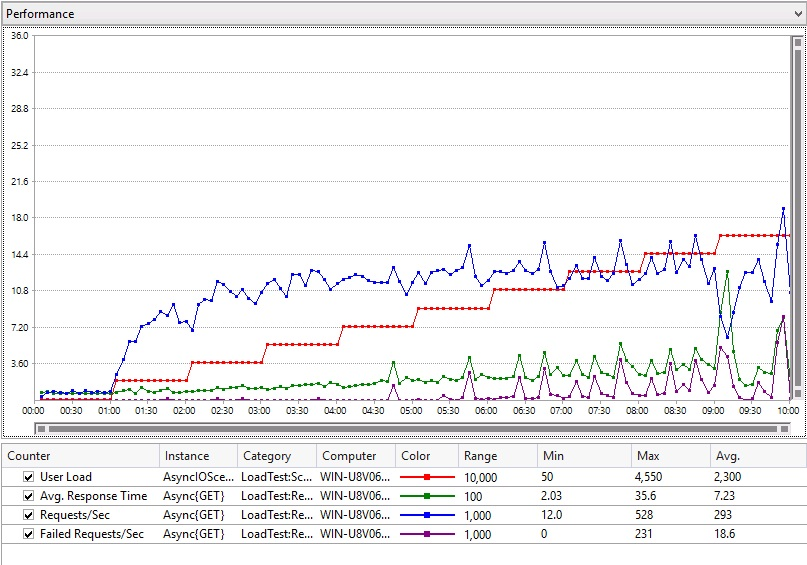
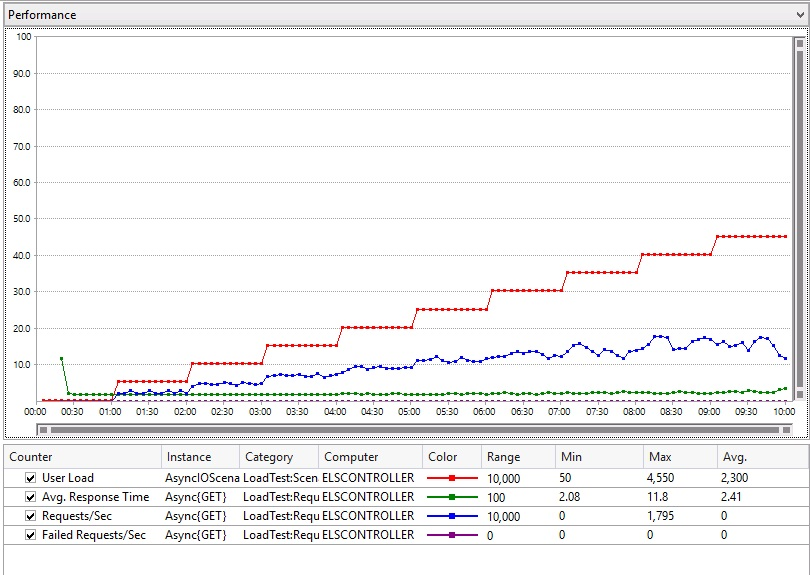
Incorporated feedback.

diff --git a/SynchronousIO/docs/SynchronousIO.md b/SynchronousIO/docs/SynchronousIO.md
@@ -1,6 +1,6 @@
-# Synchronous I/O
+# Performing Synchronous I/O
 
-A synchronous I/O operation blocks the calling thread while the I/O completes. The calling thread is effectively suspended and unable to perform useful work during this interval. The result is that processing resources are wasted. In a cloud-based web application or service which serves multiple concurrent requests, this approach can adversely affect the scalability of the system.
+A synchronous I/O operation blocks the calling thread while the I/O completes. The calling thread is effectively suspended and unable to perform useful work during this interval. The result is that processing resources are wasted. In a cloud-based web application or service which serves multiple concurrent requests, this approach can adversely affect the vertical scalability of the system.
 
 Common examples of synchronous I/O include:
 
@@ -47,14 +47,10 @@ public class SyncController : ApiController
         _userProfileService = new UserProfileServiceProxy();
     }
 
-    /// <summary>
-    /// This is a synchronous method that calls the synchronous GetUserProfile method.
-    /// </summary>
-    /// <returns>A UserProfile instance</returns>
+    // This is a synchronous method that calls the synchronous GetUserProfile method.
     public UserProfile GetUserProfile()
     {
-        var userProfile = _userProfileService.GetUserProfile();
-        return userProfile;
+        return _userProfileService.GetUserProfile();
     }
 }
 ```
@@ -72,8 +68,6 @@ var result = LibraryIOOperation();
 Console.WriteLine("{0}", result);
 ```
 
-- The system is tuned to expect a constant load where synchronous I/O may be more optimal. This can happen with IIS optimization and may be missed during load testing where the system may be exposed to an artificially distributed (constant) stream of requests directed at a limited set of I/O resources. Performing operations synchronously in this scenario can help to preserve CPU and memory resources as requests are queued rather than being competing for the same data on seperate threads. However, in the real world, requests are more likely to be distributed across a wider number of items and occur at varying rates, in which case performing synchronous I/O operations becomes an overhead rather than an advantage.
-
 - Synchronous I/O operations are hidden in an external library used by the application. A single synchronous I/O call embedded deep within a series of cascading operations can block an entire call chain.
 
 ## How to detect the problem
@@ -81,66 +75,87 @@ From the viewpoint of a user running an application that performs synchronous I/
 
 ### Reviewing the application
 
-If you are a designer or developer familiar with the way in which application is implemented, you could perform a code review to identify the source of any I/O operations that the application performs. I/O operations that appear to be synchronous should be evaluated to determine whether they are likely to cause a blockage as the number of requests increases.
+Perform a code review to identify the source of any I/O operations that the application performs. I/O operations that appear to be synchronous should be evaluated to determine whether they are likely to cause a blockage as the number of requests increases.
 
 ----------
+
 **Note:** I/O operations that are expected to be very short lived and which are unlikely to cause contention, typically accessing fast, local resources (such as small private files on an SSD drive), might be best left as synchronous operations. In these cases the overhead of creating and managing a separate task, dispatching it to another thread, and synchronizing with that thread when the task completes might outweigh the benefits of performing an operation asynchronously.
 
 ----------
 
 ### Load-testing the application
 
-Load-testing can help to identify whether a system is being constrained by performing synchronous I/O operations. As user load increases, performing synchronous I/O operations can result in exponential increases in latency for requests and consequent low throughput. This behavior typically occurs when the user load reaches thousands of concurrent requests. A good detection strategy to determine whether synchronous I/O may be a problem is to load-test the system against a work load that increases from a small number to thousands of concurrent user requests and examine how the response rate and latency varies. As an example, the following table illustrates the performance of the synchronous `GetUserProfile` method in the `SyncController` controller in the sample application under varying loads. 
+Load-testing can help to identify whether a system is being constrained by performing synchronous I/O operations. As an example, the following graph illustrates the performance of the synchronous `GetUserProfile` method in the `SyncController` controller in the sample application under varying loads. 
 
 ----------
 
-**Note:** The sample application was deployed to a 2-instance cloud service comprising small virtual machines. Using more instances and larger virtual machines should support a bigger work load, but the purpose of this exercise is to demonstrate the profile of a web application that performs synchronous I/O operations. Also note that the synchronous operation is timed to take 2 seconds, so the minimum response time will be slightly over 2 seconds.
+**Note:** The sample application was deployed to a 2-instance cloud service comprising medium virtual machines. Also note that the synchronous operation is timed to take 2 seconds, so the minimum response time will be slightly over 2 seconds.
 
 ----------
-
-Users | Requests/sec | Avg Response Time secs | Failed Requests/sec
--------| -------------| ------------------ | -------------------
-50 | 23.4 | 2.08 | 0
-550 | 53 | 9.74 | 0.13
-1050 | 76.5 | 12.5 | 0.083
-1550 | 93.7 | 15.5 | 0.58
-2050 | 104 | 18.1 | 1.90
-2550 | 335 | 7.42 | 227
-3050 | 132 | 20.3 | 22
-3550 | 1599 | 1.35 | 1491
-4050 | 172 | 18.7 | 46.1
-4550 | 175 | 17.5 | 35.8
-
-Incoming requests are queued by the IIS web server and handed to a thread running in the ASP.NET thread pool. Because each operation performs I/O synchronously, the thread is blocked until the operation completes. As the workload increases, the rate at which requests are processed also increases up to the point at which all of the ASP.NET threads in the thread pool are blocked. At this time, any further incoming requests cannot be not fulfilled immediately and wait in the queue until a running operation completes and a thread becomes available. As the queue length grows, requests start to time out. This is characterized by the number of errors that are returned. Although the volume of requests appears to increase at this point, the proportion of these requests that result in an error also increases. In total, the load-test reported 109,338 failed tests out of 164,981; a failure rate of 66.3%. The following graph illustrates these points:
 
 ![Performance chart for the sample application performing synchronous I/O operations][sync-performance]
 
+As the load increases, so does the average response time and the throughput measured in requests per second. The total number of requests completed during the test interval (10 minutes) was 51254.
+
+In isolation, it is not necessarily apparent from this test that performing synchronous I/O is a problem (unless the response time is outside of agreed SLAs). However, if processing resources are more constrained (either as a result of a much larger volume of users, or using smaller scale hosts) then you may see results similar to the following graph:
+
+![Performance chart for the sample application running on a constrained host performing synchronous I/O operations][limited-sync-performance]
+
+In this load-test, the response time and throughput initially follow a similar pattern to that of the previous test (they both increase gradually, although the system is slower due to the resource limitations of the smaller virtual machines), until the system reaches a tipping point when the workload reaches 2550 users. At this time a large number of errors start to occur. The following table breaks down the information presented by the graph:
+
+Users | Requests/sec | Avg Response Time secs | Failed Requests/sec | Successful Requests/sec
+---|---|---|---|---
+50 | 23.4 | 2.08 | 0 | 23.4
+550 | 53 | 9.74 | 0.13 | 52.87
+1050 | 76.5 | 12.5 | 0.08 | 76.42
+1550 | 93.7 | 15.5 | 0.58 | 93.12
+2050 | 104 | 18.1 | 1.90 | 102.91
+2550 | 335 | 7.42 | 227 | 108
+3050 | 132 | 20.3 | 22 | 110
+3550 | 1599 | 1.35 | 1491 | 108
+4050 | 172 | 18.7 | 46.1 | 125.9
+4550 | 175 | 17.5 | 35.8 | 139.2
+
+The rate of successful requests is not shown on the graph but is calculated by subtracting the rate of failed requests from the rate of all requests. Apart from the final couple of figures (which are possibly outliers), the system appears to support a maximum of approximately 110 successful requests per second. To understand why this is so, consider that the application runs as a Web role. Incoming requests are queued by the IIS web server and handed to a thread running in the ASP.NET thread pool. Because each operation performs I/O synchronously, the thread is blocked until the operation completes. As the workload increases, the rate at which requests are received also increases up to the point at which all of the ASP.NET threads in the thread pool are allocated and being blocked. At this time, any further incoming requests cannot be not fulfilled immediately and wait in the queue until a running operation completes and a thread becomes available. As the queue length grows, requests start to time out. This is characterized by the number of errors that are returned. Although the volume of requests appears to increase at this point, the proportion of these requests that result in an error also increases. In total, the load-test reported a failure rate of 66.3%. 
+
 ----------
 
-**Note:** Throughput should not be determined by the volume of requests per second and the response time alone, but must also consider the rate at which requests fail.
+**Note:** This load-test illustrates an important point: **Throughput should not be determined by the volume of requests per second and the response time alone, but must also consider the rate at which requests fail.**
 
 ----------
 
-For comparison purposes with the earlier example, the following table and graph highlights the performance of the asynchronous `GetUserProfileAsync` method in the `AsyncController` controller in the sample application under the same varying loads:
-
-Users | Requests/sec | Avg Response Time secs | Failed Requests/sec
--------| -------------| ------------------ | -------------------
-50 | 23.4 | 2.10 | 0
-550 | 195 | 2.75 | 0.83
-1050 | 284 | 3.4 | 1.22
-1550 | 328 | 4.15 | 0.77
-2050 | 332 | 5.38 | 3.93
-2550 | 353 | 6.6 | 11.1
-3050 | 358 | 7.88 | 20.8
-3550 | 356 | 9.35 | 33.5
-4050 | 324 | 14.3 | 46.2
-4550 | 326 | 12.8 | 67.4
+For comparison purposes with the earlier examples, the following graph illustrates the performance of the asynchronous `GetUserProfileAsync` method in the `AsyncController` controller in the sample application under the same varying loads and conditions as the first test (a 2-instance set of medium sized virtual machines):
 
 ![Performance chart for the sample application performing asynchronous I/O operations][async-performance]
 
-Each operation will still take at least 2 seconds (possibly slightly slower than the synchronous version due to the overhead of dispatching the I/O operations to a separate thread and then marshalling the results when the operation completes). However, this time the throughput is more consistent when the system reaches capacity and the error rate is significantly lower (11,143 tests failed out of 176,028 performed; an error rate of 6.33%). This is because ASP.NET threads are not blocked and can accept further requests while existing requests are performing I/O operations asynchronously. 
+This time the throughput is far higher. This is because the ASP.NET threads handling the incoming requests are not blocked by I/O requests. Instead, they become available to process further requests. In the same period of time as the previous test, the system successfully handled 567067 requests; a nearly 10-fold increase in throughput.
 
-You can use the following strategy when load-testing a system to detect effects due to synchronous I/O:
+Repeating the tests in the more constrained environment using small virtual machines generates the following results:
+
+Users | Requests/sec | Avg Response Time secs | Failed Requests/sec | Successful Requests/sec
+---|---|---|---|---
+50 | 23.4 | 2.10 | 0 | 23.4
+550 | 195 | 2.75 | 0.83 | 194.17
+1050 | 284 | 3.4 | 1.22 | 282.78
+1550 | 328 | 4.15 | 0.77 | 327.23
+2050 | 332 | 5.38 | 3.93 | 328.07
+2550 | 353 | 6.6 | 11.1 | 341.9
+3050 | 358 | 7.88 | 20.8 | 337.2
+3550 | 356 | 9.35 | 33.5 | 322.5
+4050 | 324 | 14.3 | 46.2 | 277.8
+4550 | 326 | 12.8 | 67.4 | 258.6
+
+![Performance chart for the sample application performing asynchronous I/O operations][limited-async-performance]
+
+The system still reaches a tipping point, but at a far higher workload than before (at approximately 4050 users). Additionally, the maximum number of consistently successful requests is also higher at approximately 330 requests per second (the final two figures are probably outliers, as in the earlier example). The error rate reported was 6.33%. This test shows that even in a constrained environment, replacing synchronous I/O operations with asynchronous requests can lead to big performance gains.
+
+----------
+
+**Note:** the maximum queue length supported by IIS is 5000 outstanding requests, regardless of the size of the host virtual machine. Once this number of requests is exceeded they may start failing. Scaling the size of virtual machines vertically will not help. In this situation, you should scale horizontally and spread the load over more instances.
+
+----------
+
+To summarize, you can use the following strategy when load-testing a system to detect effects due to synchronous I/O:
 
 1. Perform a load-test with a large workload (many thousands of users). The ASP.NET thread pool only contains approximately 100 threads initially to satisfy requests, so requests that perform synchronous I/O operations will show how a high latency.
 
@@ -163,18 +178,25 @@ Some libraries provide asynchronous versions of the available I/O operations. Fo
 CloudStorageAccount storageAccount = ...;
 CloudBlobClient blobClient = storageAccount.CreateCloudBlobClient();
 CloudBlobContainer container = blobClient.GetContainerReference("uploadedfiles");
-await container.CreateIfNotExistsAsync();
+await container.CreateIfNotExistsAsync().ConfigureAwait(false);
 
 CloudBlockBlob blockBlob = container.GetBlockBlobReference("myblob");
 
 // Create or overwrite the "myblob" blob with contents from a local file.
-using (var fileStream = System.IO.File.OpenRead(HttpContext.Current.Server.MapPath(@"../FileToUpload.txt")))
+using (var fileStream = File.OpenRead(HostingEnvironment.MapPath("~/FileToUpload.txt")))
 {
     await blockBlob.UploadFromStreamAsync(fileStream).ConfigureAwait(false);
 }
 ```
 
-The `UploadFromStreamAsync` method creates a new `Task` on which to perform the file upload operation. This task can run asynchronously on a separate thread from the code that called it. Note that this code uses the `await` operator to return control to the calling environment while the asynchronous operation is performed. The subsequent code effectively acts as a continuation that runs when the asynchronous operation has completed.
+The `UploadFromStreamAsync` method creates a new `Task` on which to perform the file upload operation. This I/O operation is started and the thread is released, becoming available to perform other work. When the I/O operation completes, the next available thread is used to continue the processing for the remainder of the method (the call to `ConfigureAwait(false)` indicates that this does not have to be the same thread that initiated the task.) 
+
+
+----------
+
+**Note:** This code uses the `await` operator to return control to the calling environment while the asynchronous operation is performed. The subsequent code effectively acts as a continuation that runs when the asynchronous operation has completed.
+
+----------
 
 A well-designed service should also provide asynchronous operations. The example below illustrates an asynchronous version of the web service that returns user profile information. The `GetUserProfileAsync` method depends on an asynchronous version of the User Profile service proxy which doesn't block the calling thread:
 
@@ -190,19 +212,15 @@ public class AsyncController : ApiController
         _userProfileService = new UserProfileServiceProxy();
     }
 
-    /// <summary>
-    /// This is an synchronous method that calls the Task based GetUserProfileAsync method.
-    /// </summary>
-    /// <returns>A UserProfile instance</returns>
+    // This is an synchronous method that calls the Task based GetUserProfileAsync method.
     public Task<UserProfile> GetUserProfileAsync()
     {
-        var userProfile = _userProfileService.GetUserProfileAsync();
-        return userProfile;
+        return _userProfileService.GetUserProfileAsync();
     }
 }
 ```
 
-For libraries that do not provide asynchronous versions of operations, it may be possible to create asynchronous wrappers around selected synchronous methods. However, you should follow this approach with caution. While this strategy may improve responsiveness on the thread invoking the asynchronous wrapper (which is useful if the thread is handling the user interface), it actually consumes more resources; an additional thread may be created, and there is additional overhead associated with synchronizing the work performed by this thread. For more information, see the article [Should I expose asynchronous wrappers for synchronous methods?][async-wrappers]:
+For libraries that do not provide asynchronous versions of operations, it may be possible to create asynchronous wrappers around selected synchronous methods. **However, you should follow this approach with caution.** While this strategy may improve responsiveness on the thread invoking the asynchronous wrapper (which is useful if the thread is handling the user interface), it actually consumes more resources; an additional thread may be created, and there is additional overhead associated with synchronizing the work performed by this thread. For more information, see the article [Should I expose asynchronous wrappers for synchronous methods?][async-wrappers]:
 
 **C#**
 
@@ -251,4 +269,6 @@ You should note that improving I/O performance may cause other parts of the syst
 [AsyncASPNETMethods]: http://www.asp.net/web-forms/overview/performance-and-caching/using-asynchronous-methods-in-aspnet-45
 [analyzing-logs]: https://msdn.microsoft.com/library/azure/dn904284.aspx
 [sync-performance]: Figures/SyncPerformance.jpg
+[limited-sync-performance]: Figures/LimitedSyncPerformance.jpg
 [async-performance]: Figures/AsyncPerformance.jpg
+[limited-async-performance]: Figures/LimitedAsyncPerformance.jpg

diff --git a/ChattyIO/docs/ChattyIO.md b/ChattyIO/docs/ChattyIO.md
@@ -172,11 +172,15 @@ This load test was performed by using a simulated workload of 500 concurrent use
 
 ### Monitoring the application
 
-**APPDYNAMICS INFORMATION TO BE ADDED HERE**
+You can use an Application Performance Monitor package to capture and analyze the key metrics that identify potentially chatty I/O. The exact metrics to will depend on the nature of the source or destination of the I/O requests. In the case of the sample application, the interesting I/O requests are those directed at the instance of Azure SQL Database holding the AdventureWorks2012 database. In other applications, you may need to examine the volume and I/O rates to other data sources, files, or external web services.
+
+Using the New Relic Azure Cloud Database plugin, you can monitor the SQL load of the database; this load corresponds to the number of SQL requests being sent by applications to the database. You can filter these requests by type (read or write). In the sample application, the most important requests are read operations; these correspond to the *SQL SELECT* statements that the application is using to fetch data. The following image shows the SQL Load while the load-test was running. At it's peak, the application was performing 18500 read requests per second. The Successful Connections graph to the right indicates that at one point the database was handling 118 connections per minute:
+
+![Overview of traffic hitting the AdventureWorks2012 database][database]
 
 ### Using data access statistics
 
-Examining data access statistics and other information provided by the data store acting as the repository can produce some useful information about the frequency with which the data store is accessed and the data that is requested. Windows Azure SQL Database provides access to query statistics using the Query Performance pane in the management portal. This pane shows information about all recently executed queries:
+Examining data access statistics and other information provided by the data store acting as the repository can yield detailed information about the frequency with which specific data is requested. For example, Windows Azure SQL Database provides access to query statistics using the Query Performance pane in the management portal. This pane shows information about all recently executed queries:
 
 ![The Query Performance pan in the Windows Azure SQL Database management portal][QueryPerformance1]
 
@@ -219,7 +223,7 @@ These queries correspond to the requests generated by the Entity Framework.
 
 ### Profiling the application
 
-Profiling an application can help to identify the following symptoms that characterize chatty I/O operations. The exact symptoms will depend on the nature of the resources being accessed but may include:
+Profiling an application can help to identify the following low-level symptoms that characterize chatty I/O operations. The exact symptoms will depend on the nature of the resources being accessed but may include:
 
 - A large number of small I/O requests made to the same file.
 
@@ -248,7 +252,7 @@ public class ChunkyProductController : ApiController
         {
             var subCategory = await context.ProductSubcategories
                   .Where((psc) => psc.ProductSubcategoryId == subCategoryId)
-                  .Include("Product.ProductListPriceHistory")
+                  .Include("Product.ProductListPriceHistory"))
                   .SingleOrDefaultAsync();
             return subCategory;
         }
@@ -356,7 +360,9 @@ You should consider the following points:
 
 ## <a name="Consequences"></a>Consequences of the solution
 
-The system should spend less time performing I/O, and contention for I/O resources should be decreased. This should manifest itself as an improvement in response time and throughput in an application. Performing load-testing against the Chatty I/O sample application by using the `chunky` API yields the following results:
+The system should spend less time performing I/O, and contention for I/O resources should be decreased. This should manifest itself as an improvement in response time and throughput in an application. However, you should ensure that each request only fetches the data that is likely to be required. Making requests that are far too big can be as damaging for performance as making lots of small requests; avoid retrieving data speculatively. For more information, see the [Retrieving Too Much Data][retrieving-too-much-data] anti-pattern.
+
+Performing load-testing against the Chatty I/O sample application by using the `chunky` API yields the following results:
 
 ![Key indicators load-test results for the Chunky API in the Chatty I/O sample application][key-indicators-chunky-io]
 
@@ -411,6 +417,7 @@ SELECT
     ORDER BY [Project2].[ProductSubcategoryID] ASC, [Project2].[C2] ASC, [Project2].[ProductID] ASC, [Project2].[C1] ASC 
 ```
 
+
 ## Related resources
 
 - [Data Consistency guidance][data-consistency-guidance].
@@ -420,8 +427,10 @@ SELECT
 [fullDemonstrationOfProblem]: http://github.com/mspnp/performance-optimization/xyz
 [fullDemonstrationOfSolution]: http://github.com/mspnp/performance-optimization/123
 [data-consistency-guidance]: http://LINK-TO-CONSISTENCY-GUIDANCE-WHEN-PUBLISHED
+[retrieving-too-much-data]: http://LINK-TO-RETRIEVING-TOO-MUCH-DATA-ANTIPATTERN-WHEN-PUBLISHED
 [caching-guidance]: https://msdn.microsoft.com/library/dn589802.aspx
 [key-indicators-chatty-io]: Figures/ChattyIO.jpg
 [key-indicators-chunky-io]: Figures/ChunkyIO.jpg
+[database]: Figures/Database.jpg
 [QueryPerformance1]: Figures/QueryPerf1.jpg
 
